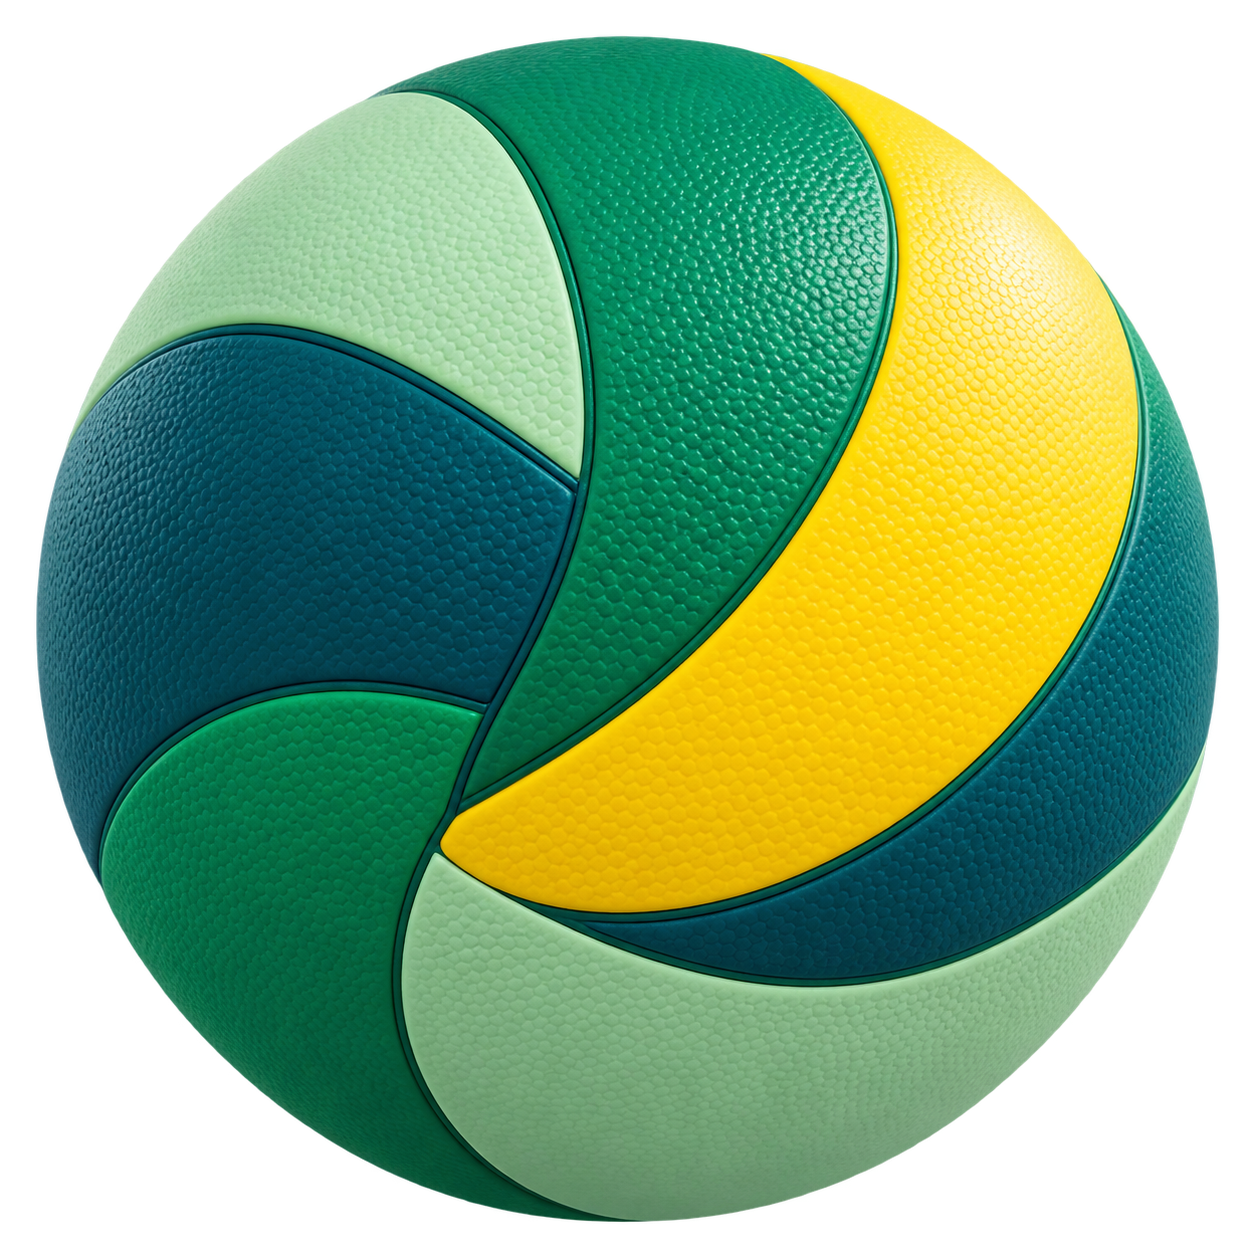
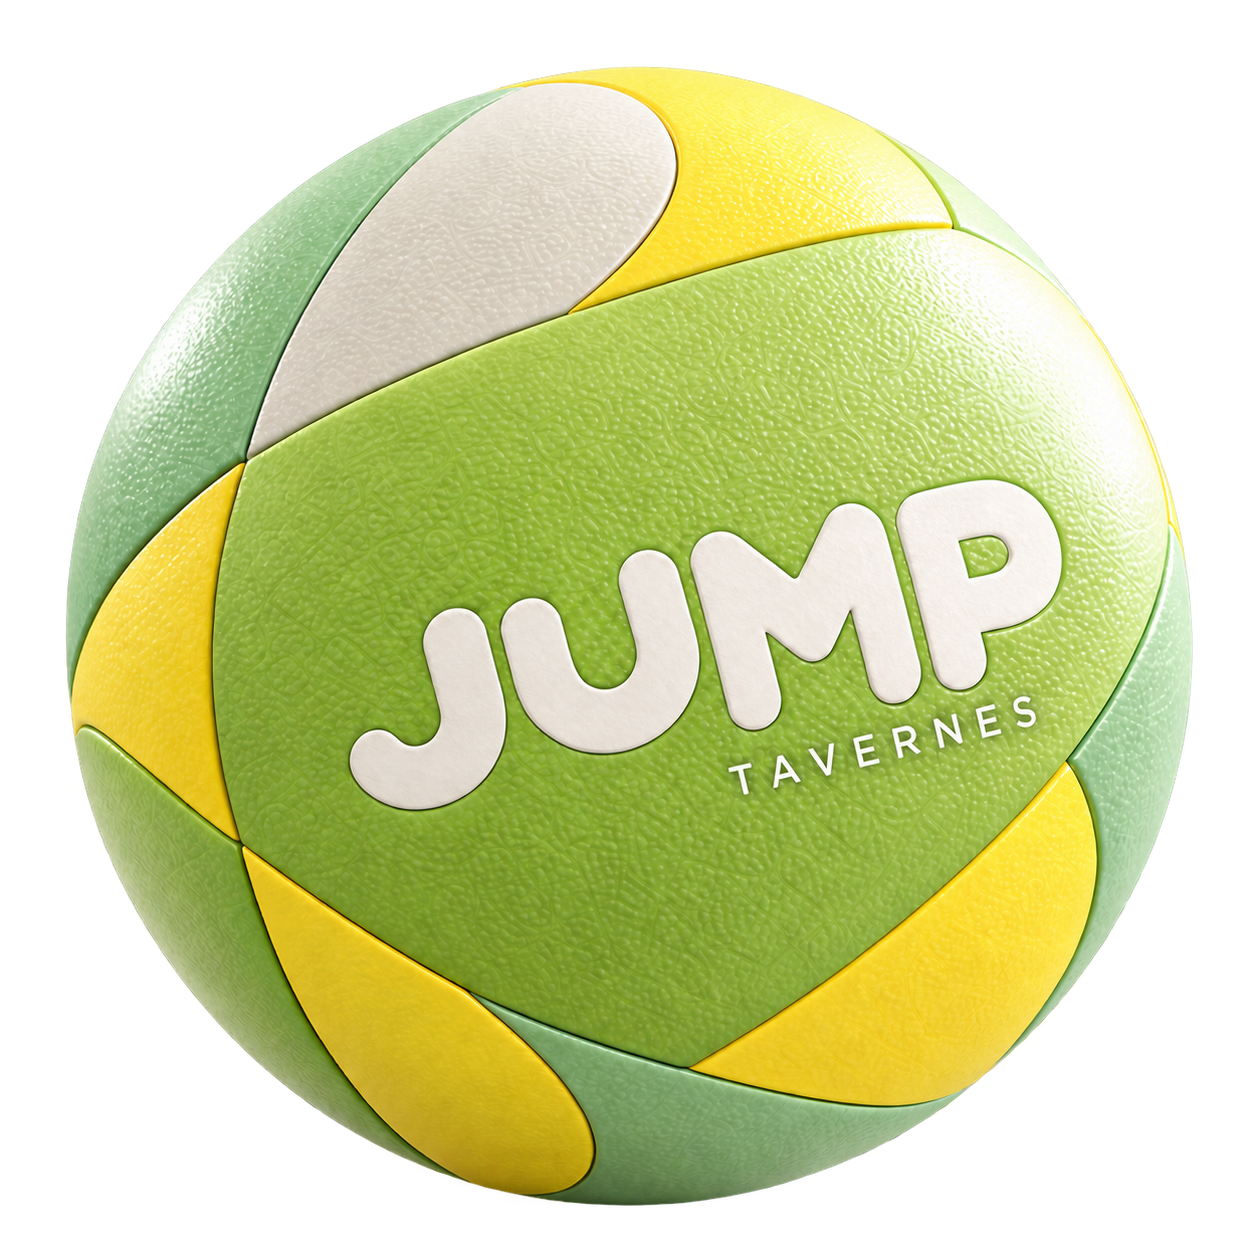
Actualizar pelotas del hero

diff --git a/index.html b/index.html
@@ -37,8 +37,8 @@
 
         <div class="hero-copy hero-copy--left"><p class="eyebrow">Sala privada para<br>celebraciones</p><span class="short-rule" aria-hidden="true"></span><p class="hero-description">Celebra en un espacio amplio y pensado para disfrutar en familia</p></div>
         <div class="ball-stage" aria-hidden="true">
-          <div class="ball-wrap ball-wrap--reservation"><picture><source srcset="./assets/v2/ball-reserva.png"><img class="ball-image" src="./assets/ball-reserva.png" width="1254" height="1254" alt=""></picture><img class="ball-shadow-image" src="./assets/v2/shadow-ball.png" width="1254" height="1254" alt=""><div class="ball-shadow"></div></div>
-          <div class="ball-wrap ball-wrap--discover"><picture><source srcset="./assets/v2/ball-descubre.png"><img class="ball-image" src="./assets/ball-descubre.png" width="1254" height="1254" alt=""></picture><img class="ball-shadow-image" src="./assets/v2/shadow-ball.png" width="1254" height="1254" alt=""><div class="ball-shadow"></div></div>
+          <div class="ball-wrap ball-wrap--reservation"><picture><source srcset="./assets/v2/ball-reserva.png?v=balls-20261009"><img class="ball-image" src="./assets/ball-reserva.png?v=balls-20261009" width="1254" height="1254" alt=""></picture><img class="ball-shadow-image" src="./assets/v2/shadow-ball.png" width="1254" height="1254" alt=""><div class="ball-shadow"></div></div>
+          <div class="ball-wrap ball-wrap--discover"><picture><source srcset="./assets/v2/ball-descubre.png?v=balls-20261009"><img class="ball-image" src="./assets/ball-descubre.png?v=balls-20261009" width="1254" height="1254" alt=""></picture><img class="ball-shadow-image" src="./assets/v2/shadow-ball.png" width="1254" height="1254" alt=""><div class="ball-shadow"></div></div>
         </div>
 
         <div class="hero-copy hero-copy--right" aria-live="polite">
